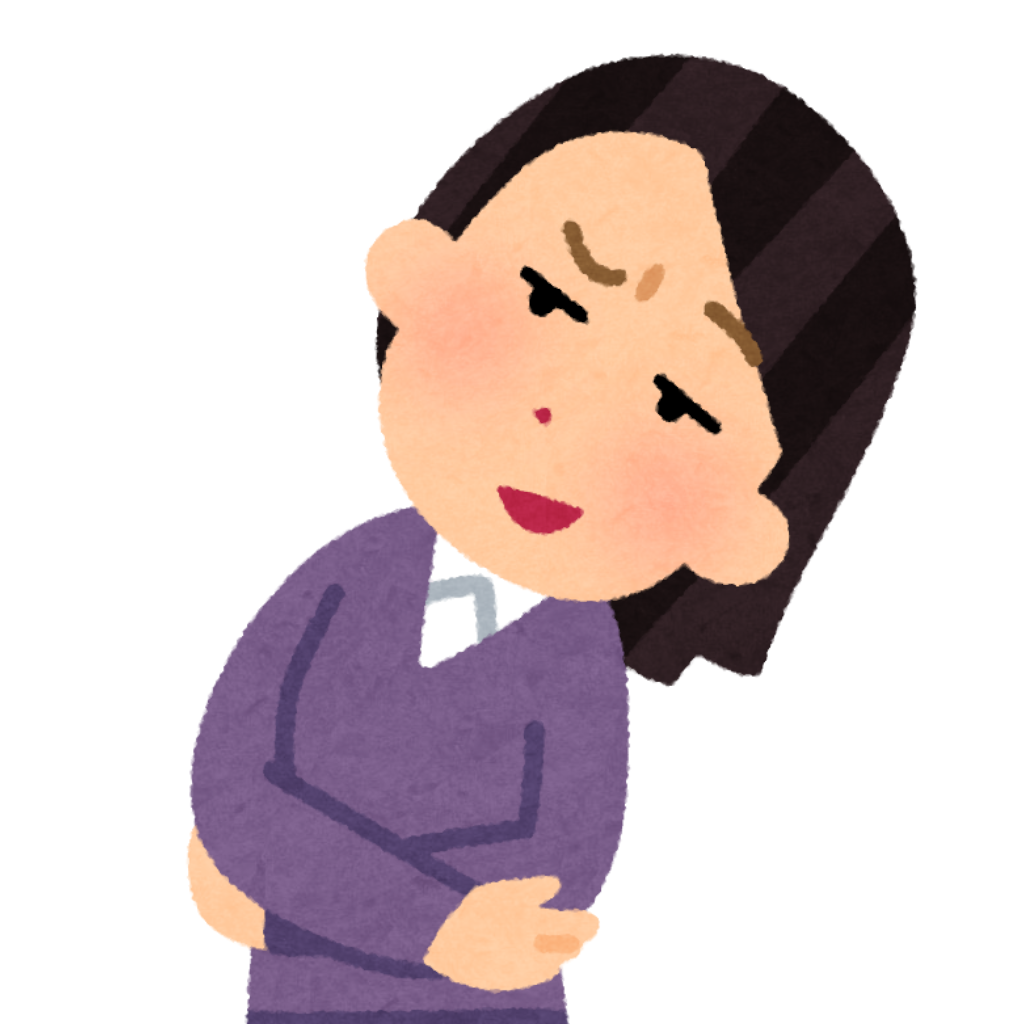
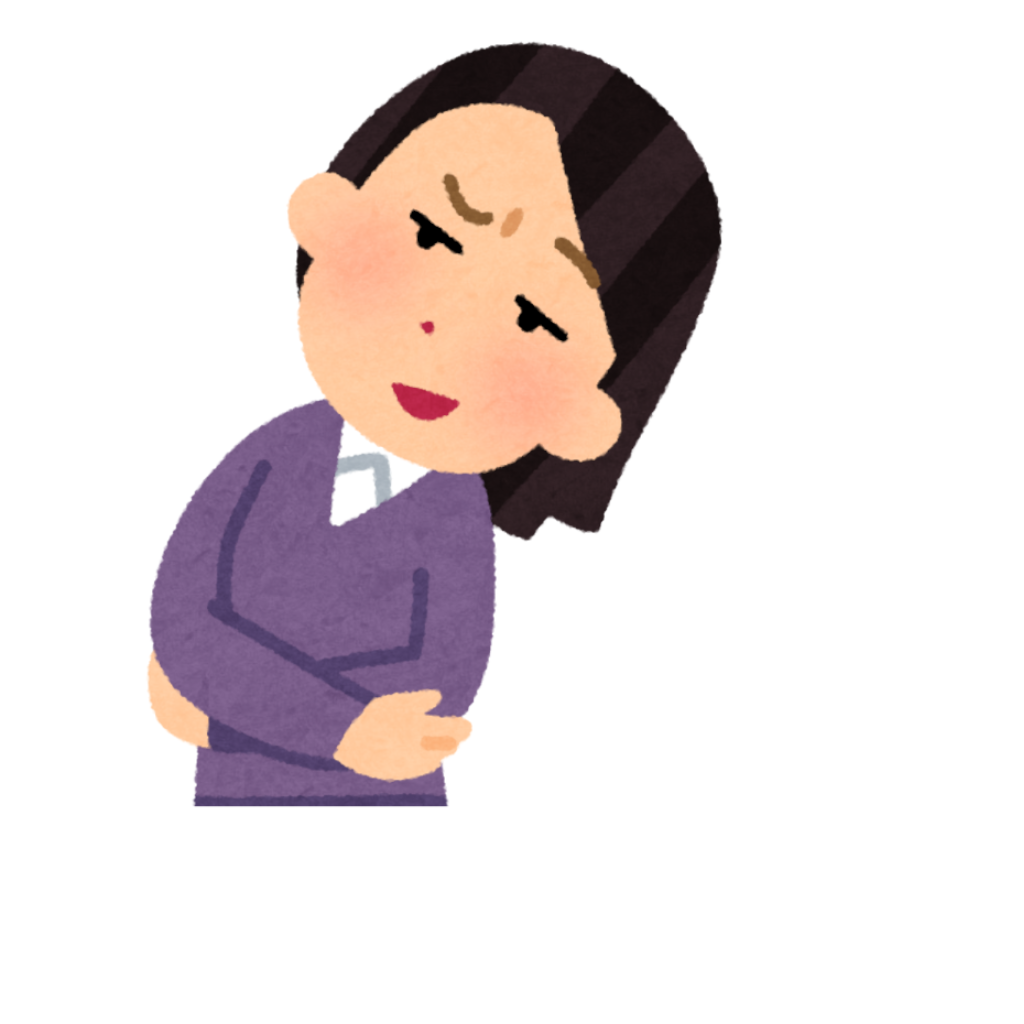
.

diff --git a/talklib2/talklib2.cpp b/talklib2/talklib2.cpp
@@ -128,11 +128,19 @@ void Talk::Render()
 
 void Talk::Finalize()
 {
+    for (std::size_t i = 0; i < m_talkBallList.size(); ++i)
+    {
+        m_talkBallList.at(i).Finalize();
+    }
+
     delete m_sprFade;
     m_sprFade = nullptr;
 
     delete m_sprTextBack;
     m_sprTextBack = nullptr;
+
+    delete m_sprite;
+    m_sprite = nullptr;
 
     delete m_SE;
     m_SE = nullptr;
@@ -280,7 +288,7 @@ void TalkBall::Render()
 
     if (m_spriteRight != nullptr)
     {
-        m_spriteRight->DrawImage(500, 0);
+        m_spriteRight->DrawImage(700, 0);
     }
 
     m_spriteBack->DrawImage(0, 0);
@@ -305,3 +313,19 @@ bool TalkBall::IsFinish()
 {
     return m_isFinish;
 }
+
+void TalkBall::Finalize()
+{
+    if (m_spriteLeft != nullptr)
+    {
+        delete m_spriteLeft;
+        m_spriteLeft = nullptr;
+    }
+
+    if (m_spriteRight != nullptr)
+    {
+        delete m_spriteRight;
+        m_spriteRight = nullptr;
+    }
+}
+

diff --git a/Sample/main.cpp b/Sample/main.cpp
@@ -72,12 +72,17 @@ public:
 
     ~Sprite() override
     {
-        m_D3DSprite->Release();
-        m_D3DSprite->Release();
-        m_D3DSprite = nullptr;
-        m_pD3DTexture->Release();
-        m_pD3DTexture->Release();
-        m_pD3DTexture = nullptr;
+        if (m_D3DSprite != nullptr)
+        {
+            m_D3DSprite->Release();
+            m_D3DSprite = nullptr;
+        }
+
+        if (m_pD3DTexture != nullptr)
+        {
+            m_pD3DTexture->Release();
+            m_pD3DTexture = nullptr;
+        }
     }
 
     virtual ISprite* Create() override

diff --git a/talklib2/talklib2.h b/talklib2/talklib2.h
@@ -39,6 +39,7 @@ public:
     void Update();
     void Render();
     bool IsFinish();
+    void Finalize();
 
 private:
     std::vector<std::string> m_textShow;

diff --git a/README.md b/README.md
@@ -3,6 +3,8 @@ https://github.com/user-attachments/assets/aa50a282-7568-4736-a081-57d9d87a5575
 
 会話の演出を行う
 
-![](talklib.png)
+![](talklib2.png)
 
 上の図のようなcsvファイルを読み込ませる。
+
+メッセージ音は変更できない。
